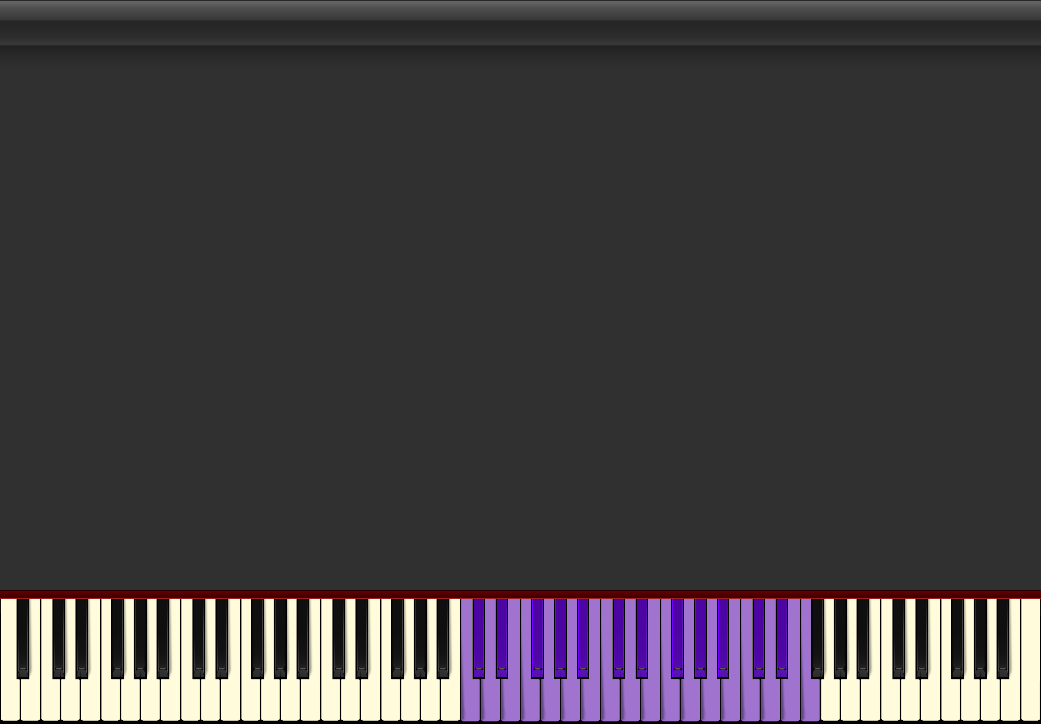
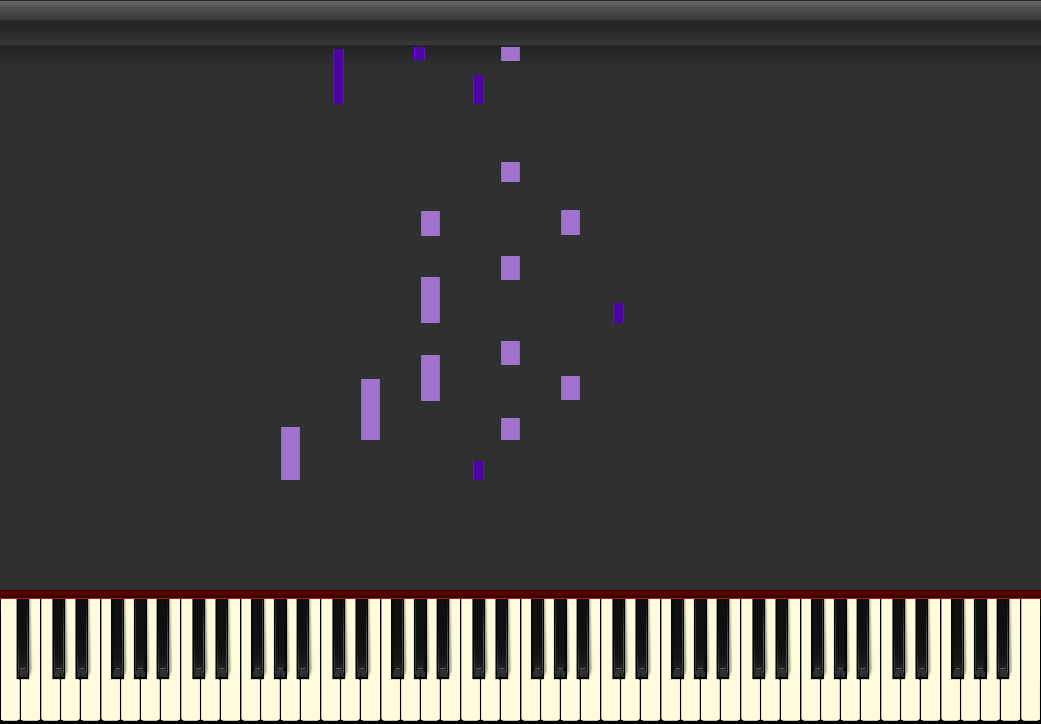
[#0] TF : Snapshot uses Pianist elapsedTime now, this means they are synchronized. Also, decoupling transcription set from pianist play(). They are now separate executions.

diff --git a/src/apollo/Pianist.java b/src/apollo/Pianist.java
@@ -13,32 +13,31 @@ import javax.sound.midi.MidiUnavailableException;
  */
 public class Pianist {
     public enum State { NOT_STARTED, PLAYING, FINISHED }  
-    public final Piano piano;
+    public Piano piano;
     public State state;
-    public Transcription currentTranscription;
+    public Transcription transcription;
+    public double elapsedTime;
 
     public Pianist() throws MidiUnavailableException {
         this.piano = new Piano();
         this.state = State.NOT_STARTED;
     }
 
-    public void play(Transcription transcription) {
-        double t0 = System.nanoTime() * Math.pow(10, -9);
-        double elapsedTime = 0;
-        int index = 0;
-        this.currentTranscription = transcription;
-        this.state = State.PLAYING;
-
-        PianoEvent pianoEvent = transcription.pianoEvents.get(index);
-        //timing appears right, but lose a second over 3minutes most likely because if the miliseconds lost when we go to check 
-        //need to optimize, and install pedalling etc.
-        //Tet code, and clean up the Transcription
-        //count lost seconds to make up
+    //plays transcription
+    public void play() throws NoSuchFieldException {
+        if (this.transcription == null)
+            throw new NoSuchFieldException("no transcription to play");
         
-        while (isPlaying() && index < transcription.pianoEvents.size()) {
-            elapsedTime = (System.nanoTime() * Math.pow(10, -9)) - t0;
+        double t0 = System.nanoTime() * Math.pow(10, -9);
+        this.elapsedTime = 0;        
+        int index = 0;
+        this.state = State.PLAYING;
+        PianoEvent pianoEvent = this.transcription.pianoEvents.get(index);
+        
+        while (isPlaying() && index < this.transcription.pianoEvents.size()) {
+            this.elapsedTime = (System.nanoTime() * Math.pow(10, -9)) - t0;
             
-            while (isPlaying() && elapsedTime >= pianoEvent.time) {
+            while (isPlaying() && this.elapsedTime >= pianoEvent.time) {
                 //System.out.println(pianoEvent.type + " @" + pianoEvent.time + " data: " + pianoEvent.data);
 
                 switch (pianoEvent.type) {
@@ -55,17 +54,19 @@ public class Pianist {
                         break;
                 }
 
-                if (index == transcription.pianoEvents.size() - 1) {
+                if (index == this.transcription.pianoEvents.size() - 1) {
                     finish();
                     break;
                 } else {
                     index++;
-                    pianoEvent = transcription.pianoEvents.get(index);
+                    pianoEvent = this.transcription.pianoEvents.get(index);
                 }
             }
         }
-        
-        System.out.println("@" + elapsedTime + " NOW FINISHED");
+    }
+    
+    public void setTranscription(Transcription transcription) {
+        this.transcription = transcription;
     }
     
     public boolean isPlaying() {

diff --git a/src/apollo/Apollo.java b/src/apollo/Apollo.java
@@ -27,6 +27,7 @@ import javafx.animation.AnimationTimer;
 public class Apollo extends Application 
 {
     public RunnablePianist runnablePianist;
+    public static final float SCALE = 1.0f;
     
     public static void main(String[] args) throws MidiUnavailableException, InvalidMidiDataException, IOException {
         launch(args);
@@ -41,17 +42,17 @@ public class Apollo extends Application
         Scene theScene = new Scene( root );
         theStage.setScene( theScene );
 
-        Canvas canvas = new Canvas( 1041, 724 );
+        Canvas canvas = new Canvas( 1041 * SCALE, 724 * SCALE );
         root.getChildren().add( canvas );
 
         GraphicsContext gc = canvas.getGraphicsContext2D();
 
-        final long startNanoTime = System.nanoTime();
 
         //this.runnablePianist = new RunnablePianist("Pianist", new Transcriber().transcribe("test\\samples\\test.mid"));
-        this.runnablePianist = new RunnablePianist("Pianist", new Transcriber().transcribe("test\\samples\\test2.mid"));
-        //this.runnablePianist = new RunnablePianist("Pianist", new Transcriber().transcribe("C:\\Users\\ad\\Documents\\my_songs\\tom_odell_-_.mid"));
-
+        //this.runnablePianist = new RunnablePianist("Pianist", new Transcriber().transcribe("test\\samples\\test2.mid"));
+        this.runnablePianist = new RunnablePianist("Pianist");
+        Transcription transcription = new Transcriber().transcribe("C:\\Users\\ad\\Documents\\my_songs\\tom_odell_-_.mid");
+        runnablePianist.pianist.setTranscription(transcription);
         runnablePianist.start();
         Snapshot renderer = new Snapshot();
         
@@ -60,10 +61,8 @@ public class Apollo extends Application
             @Override
             public void handle(long currentNanoTime)
             {
-                double t = (currentNanoTime - startNanoTime) * Math.pow(10, -9); 
-
                 try {
-                    gc.drawImage( renderer.getSnapshot(runnablePianist.pianist, 1.0f, t-0.9), 0, 0 );
+                    gc.drawImage( renderer.getSnapshot(runnablePianist.pianist, SCALE), 0, 0 );
                 } catch (IOException ex) {
                     Logger.getLogger(Apollo.class.getName()).log(Level.SEVERE, null, ex);
                 }
@@ -80,7 +79,5 @@ public class Apollo extends Application
         if(this.runnablePianist != null) {
             this.runnablePianist.pianist.finish();
         }
-        // Save file
     }
 }
-//http://stackoverflow.com/questions/26619566/javafx-stage-close-handler

diff --git a/src/apollo/RunnablePianist.java b/src/apollo/RunnablePianist.java
@@ -5,6 +5,8 @@
  */
 package apollo;
 
+import java.util.logging.Level;
+import java.util.logging.Logger;
 import javax.sound.midi.MidiUnavailableException;
 
 /**
@@ -15,18 +17,20 @@ public class RunnablePianist implements Runnable {
 
     private Thread thread;
     private final String threadName;
-    private final Transcription transcription;
     public Pianist pianist;
 
-    RunnablePianist(String name, Transcription transcription) throws MidiUnavailableException {
+    RunnablePianist(String name) throws MidiUnavailableException {
         this.threadName = name;
-        this.transcription = transcription;
         this.pianist = new Pianist();
     }
 
     @Override
     public void run() {
-        this.pianist.play(transcription);
+        try {
+            this.pianist.play();
+        } catch (NoSuchFieldException ex) {
+            Logger.getLogger(RunnablePianist.class.getName()).log(Level.SEVERE, null, ex);
+        }
     }
 
     public void start() {

diff --git a/src/apollo/Snapshot.java b/src/apollo/Snapshot.java
@@ -36,12 +36,12 @@ public class Snapshot {
         this.FUTURE = initializeFUTURE();
     }
 
-    public Image getSnapshot(Pianist pianist, float scale, double elapsedTime) throws IOException {
+    public Image getSnapshot(Pianist pianist, float scale) throws IOException {
         BufferedImage image = new BufferedImage(this.background.getWidth(), this.background.getHeight(), BufferedImage.TYPE_INT_ARGB);
         Graphics2D g = image.createGraphics();
         g.drawImage(this.background, 0, 0, image.getWidth(), image.getHeight(), null);
 
-        //renderInterval(g, pianist.currentTranscription, new Interval(elapsedTime, elapsedTime + 10.0f));
+        renderInterval(g, pianist.transcription, new Interval(pianist.elapsedTime, pianist.elapsedTime + 6.0f));
         renderKeybed(pianist.piano, g);    
         
         BufferedImage scaledImage = scale(image, scale);

diff --git a/test/apollo/SnapshotTest.java b/test/apollo/SnapshotTest.java
@@ -52,12 +52,11 @@ public class SnapshotTest {
         Pianist pianist = new Pianist();
         float scale = 1.0F;
         Snapshot instance = new Snapshot();
+        Transcription transcription = new Transcriber().transcribe("test\\samples\\test.mid");
+        pianist.setTranscription(transcription);
+        pianist.elapsedTime = 1.0;
         
-        for(int i=60; i< 90; i++) {
-          pianist.piano.noteOn(i, 1);    
-        }
-       
-        Image actualSnapshot = instance.getSnapshot(pianist, scale, 0.0);
+        Image actualSnapshot = instance.getSnapshot(pianist, scale);
         ImageIO.write(SwingFXUtils.fromFXImage(actualSnapshot, null), "png", new File("tmp\\actual.png"));
         
         assertEquals(true, Utilities.compareFiles("tmp\\actual.png", "test\\samples\\testGetSnapshot.png"));     

diff --git a/test/apollo/PianistTest.java b/test/apollo/PianistTest.java
@@ -82,7 +82,9 @@ public class PianistTest {
     @Test
     public void testPlay_test2mid() throws MidiUnavailableException, InvalidMidiDataException, IOException, InterruptedException {
         System.out.println("play");
-        RunnablePianist runnablePianist = new RunnablePianist("testPianist", new Transcriber().transcribe("test\\samples\\test2.mid"));
+        RunnablePianist runnablePianist = new RunnablePianist("testPianist");
+        Transcription transcription = new Transcriber().transcribe("test\\samples\\test2.mid");
+        runnablePianist.pianist.setTranscription(transcription);
         runnablePianist.pianist.piano.setMute(true);
         assertEquals(Pianist.State.NOT_STARTED, runnablePianist.pianist.state);
         runnablePianist.start();
